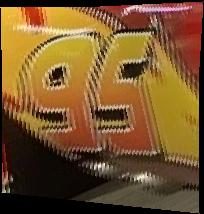
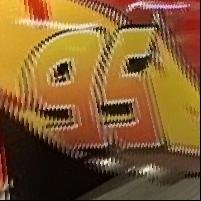
uploaded project 4b

diff --git a/cs280a/project4/index.html b/cs280a/project4/index.html
@@ -28,7 +28,7 @@
       <p class="font-sans text-xl text-slate-500 m-3 px-8">Method & Explanations</p>
       <p class="font-sans text-lg m-5 px-16 mb-10">
         <b>Computing Homography: </b>Homography is a mapping or transformation that accounts for not just translation but also other aspects like scaling and rotation.
-        Given a set of N points in image 1 and the set of corresponding N points in image 2, where N >= 8, the homography transformation matrix can be solved from
+        Given a set of N points in image 1 and the set of corresponding N points in image 2, where N >= 4, the homography transformation matrix can be solved from
         a least square system with the <b>np.linalg.lstsq</b> function. The least square system used is shown below with scale factor i=1 for a total of 8 unknowns a, b, c, d, e, f, g, h.
       </p>
       <div class="px-16 mx-16 flex space-x-4 justify-center items-center">
@@ -36,7 +36,7 @@
         <img class="h-48 object-scale-down flex-[2]" src="images/homography_eq2.png" />
       </div>
       <p class="font-sans text-lg m-5 px-16 mb-10">
-        <b>Rectification: </b>Given an image, can specify 8 points to define an area A within the image. To rectify the selected area A, we can compute the homography
+        <b>Rectification: </b>Given an image, can specify 4 or more points to define an area A within the image. To rectify the selected area A, we can compute the homography
         transformation H between A and a blank rectangular canvas image C, and then warp A onto C. The resulting rectified A will appear in C. Additionally, by using the inverse homography transformation
         by inversing H, we can also warp any image C back onto selected area A in the original image. This allow adding new content onto the original image in a way that 
         fits its geometry and context.
@@ -45,7 +45,7 @@
 
       <p class="font-sans text-xl text-slate-500 m-3 px-8 mb-5">Results</p>
 
-      <p class="font-sans font-bold text-lg m-5 px-8">Ligntning McQueen</p> 
+      <p class="font-sans font-bold text-lg m-5 px-8">Ligntning McQueen at Peterson Automotive Museum</p> 
       <div class="flex mx-10 mb-5 text-center justify-center gap-4">
         <div class="flex-[2] bg-gray-200 p-4 rounded-md">
           <p class="pb-2 text-lg font-bold">Original Image</p>
@@ -54,7 +54,7 @@
           </div>
         </div>
         <div class="flex-1 p-4 rounded-md flex text-start items-center">
-          <p class="pb-2 text-lg">Two areas are defined on the image, with the outer boundary of each area defined by 8 points. <br /><br />
+          <p class="pb-2 text-lg">Two areas are defined on the image, with the outer boundary of each area defined by 4 points. <br /><br />
             The green points define area 1.<br/>
             The blue points define area 2.
           </p>
@@ -310,9 +310,227 @@
 
       <p class="font-sans text-lg mt-5 mb-5 px-16">
         The above result has a visible vertical discrepency between image 2 and 3. This may be due to a change in camera center of projection between the two 
-        images when the photos are taken, as the blend overall looks consistent otherwise. The issue of ghosting also appears as some chairs not not very clear.
-        This is a limitation to the simple alpha feathering method and may be solved by methods like two-band blending with laplacian stacks.
+        images when the photos are taken, as the blend overall looks consistent otherwise.
       </p>
     </div>
+
+    <!-- Part 2 Title -->
+    <div class="container mx-auto p-5 m-5 my-10 mt-20 border-solid border-4 bg-violet-200 border-violet-800 rounded-md shadow-lg flex flex-col justify-center text-center">
+      <!-- <p class="font-sans text-2xl ml-3 font-bold">Part 1: Image Warping and Mosaicing</p> -->
+      <p class="font-sans text-3xl text-slate-700 font-bold m-3 px-8">Part B: Feature Matching & Autostitching</p>
+    </div>
+
+    <!-- Part 2.1 -->
+    <div class="container mx-auto p-5 pb-12 m-5 my-10 border-solid border-2 border-indigo-200 rounded-md shadow-lg flex flex-col justify-center">
+      <p class="font-sans text-2xl ml-3 mb-3 font-bold">Extracting Feature Descriptors</p>
+      <div class="border-t border-slate-600 mb-3"></div>
+      
+      <p class="font-sans text-xl text-slate-500 m-3 px-8">Method & Explanations</p>
+      <p class="font-sans text-lg m-5 px-16">
+        <b>Corner Feature Detection: </b>Harris corner detector utilizes changes in gradients to pick up on features in images that are likely corner points. The result of Harries corner detection 
+        is a list of points that are likely corners, together with corner response value for each pixel of the image.
+      </p>
+      <div class="flex flex-wrap mx-10 text-center gap-4 mb-5">
+        <div class="flex-1 bg-gray-200 p-4 rounded-md">
+          <p class="pb-2 text-lg font-bold">Harris Corner Response</p>
+          <div class="py-2 px-1 flex flex-col justify-center items-center">
+            <img class="max-h-96 object-scale-down rounded-md" src="images/harris_vals.png" />
+          </div>
+        </div>
+        <div class="flex-1 bg-gray-100 p-4 rounded-md">
+          <p class="pb-2 text-lg font-bold">Detected Corners (Top 10%)</p>
+          <div class="py-2 px-1 flex justify-center">
+            <img class="max-h-96 object-scale-down rounded-md" src="images/harris_ex.png" />
+          </div>
+        </div>
+      </div>
+
+      <p class="font-sans text-lg m-5 px-16">
+        <b>Adaptive Non-Maximal Suppression: </b> Based on the approach described in the paper <i>“Multi-Image Matching using Multi-Scale Oriented Patches” by Brown et al</i> , the detected corner feature 
+          points are filtered ("suppressed") such that they become more evenly spread out, which leads to better overall feature points.<br /><br /> The overall idea is to filter the feature points 
+          such that only feature points evenly spaced with higher corner response are kept, while other points are discarded. For my implementation, each corner point is assigned a radius initialized to 0 and
+          the radius for all point equally increase by 1 at each iteration. Whenever overlap occurs between two or more circles, only the point with largest corner response remain. This process can keep going until 
+          a desired number of feature points is reached, during which the radius value would also be the minimum radius for the current suppression outcome.
+        </b>
+      </p>
+      <div class="flex mx-10 mb-5 mt-5 text-center justify-center">
+        <div class="bg-gray-200 rounded-md w-full">
+          <div class="py-2 flex flex-col justify-center">
+            <p class="pb-2 pt-4 text-lg font-bold">Adaptive Non-Maximal Suppression (N=50, Radius=51)</p>
+            <div class="flex mx-10 text-center mb-5">
+              <div class="mr-8 pt-2 flex justify-center">
+                <img class="max-h-96 object-scale-down rounded-md" src="images/max_suppression1.png" />
+              </div>
+              <div class="pt-2 flex justify-center">
+                <img class="max-h-96 object-scale-down rounded-md" src="images/max_suppression2.png" />
+              </div>
+            </div>
+          </div>
+        </div>
+      </div> 
+
+      <p class="font-sans text-lg m-5 px-16">
+        <b>Feature Descriptors: </b> To better match between feature points, we extract feature descriptors, which are small patches surrounding each feature point.
+        For my implementation, all feature descriptors are 40 by 40 patches downsampled to 8 by 8 gain-normalized patches.
+        </b>
+      </p>
+      <div class="flex mx-10 mb-5 mt-5 text-center justify-center">
+        <div class="bg-gray-200 p-4 rounded-md w-full">
+          <div class="py-2 px-1 flex flex-col justify-center">
+            <p class="pb-2 text-lg font-bold">Example Feature Descriptors (8 by 8)</p>
+            <div class="flex flex-col mx-10 text-center mb-5">
+              <div class="pt-2 flex justify-center">
+                <img class="max-h-80 object-scale-down rounded-md" src="images/feature_desc1.png" />
+              </div>
+              <div class="pt-2 flex justify-center">
+                <img class="max-h-80 object-scale-down rounded-md" src="images/feature_desc2.png" />
+              </div>
+            </div>
+          </div>
+        </div>
+      </div> 
+    </div>
+
+    <!-- Part 2.2 -->
+    <div class="container mx-auto p-5 pb-12 m-5 my-10 border-solid border-2 border-indigo-200 rounded-md shadow-lg flex flex-col justify-center">
+      <p class="font-sans text-2xl ml-3 mb-3 font-bold">Feature Matching & Recovering Homography</p>
+      <div class="border-t border-slate-600 mb-3"></div>
+      
+      <p class="font-sans text-xl text-slate-500 m-3 px-8">Method & Explanations</p>
+      <p class="font-sans text-lg m-5 px-16">
+        <b>Feature Matching: </b>To match the features of images <mark>A</mark> and <mark>B</mark> using feature descriptors <mark>DA</mark> and <mark>DB,</mark> for each feature descriptor <mark>DA_i</mark> in <mark>DA</mark>, the euclidean distance between
+        <mark>DA_i</mark> and all of <mark>DB</mark> are computed, and the two feature descriptors from DB with smallest euclidean distance (closest to <mark>DA_i</mark>) are obtained as <mark>DB_NN1</mark> (with smallest distance <mark>d_NN1</mark>) and <mark>DB_NN2</mark> (with second smallest distance <mark>d_NN2</mark>), which are 
+        the 2 nearest neighbors of <mark>DA_i</mark>. Then, the <b>Lowe threshold</b> is applied where <mark>DA_i</mark> and <mark>DB_NN1</mark> would form a match only if <mark>d_NN1/d_NN2</mark> is less than a certain threshold. The overall idea is that by passing the Lowe threshold test,
+        <mark>d_NN1</mark> would need to be sufficiently different from <mark>d_NN2</mark>, which would lead to a more confident matching since there are no close alternatives.
+      </p>
+      <p class="font-sans text-lg m-5 px-16">
+        <b>Recovering Homography: </b>After feature descriptors are matched and a list of corresponding feature points are obtained, we can apply <b>RANSAC</b> to recover the homography. Since the 
+          feature matching step is not perfect and could have incorrect matches, the previous homography computation setup would not work reliably. Instead, we can recover homography with RANSAC, which is robust to minor matching errors.
+          The main steps to implement RANSAC are shown below.
+        </b>
+      </p>
+      <p class="font-sans text-lg mx-20 px-5 py-5 bg-gray-200 text-indigo-800 rounded-lg mb-5">
+        Given list of corresponding feature points <mark>A</mark> and <mark>B</mark> of two images, iterate N times and for each iteration: <br />
+        → <b>Step 1:</b> Select 4 random pairs of feature points <mark>(Ai, Bi)</mark>.<br />
+        → <b>Step 2:</b> Compute homography transformation matrix <mark>H_est</mark> from the 4 points selected in step 1.<br />
+        → <b>Step 3:</b> Transform all points <mark>A</mark> into <mark>A'</mark> using <mark>H_est</mark>. <br />
+        → <b>Step 4:</b> Obtain <b>"inliers"</b> as all pairs <mark>(Ai, Bi)</mark> such that distance between <mark>Ai'</mark> and <mark>Bi</mark> is less than certain threshold.<br />
+        → <b>Step 5:</b> Store inliers with maximal number of pairs.<br />
+        After N iterations: <br/>
+        → <b>Step 6:</b> Compute homography transformation matrix <mark>H</mark> based on largest inliers.
+      </p>
+      <div class="border-t border-slate-300 mx-10 my-3"></div>
+
+      <p class="font-sans text-xl text-slate-500 m-3 px-8 mb-5">Results</p>
+
+      <p class="font-sans font-bold text-lg m-5 mt-5 px-8">Xučyun Ruwway Courtyard</p>  
+      <div class="flex mx-10 mb-5 text-center justify-center">
+        <div class="bg-gray-200 rounded-md w-full">
+          <div class="py-2 flex flex-col justify-center">
+            <p class="pb-2 pt-4 text-lg font-bold">Feature Matching</p>
+            <div class="flex mx-10 text-center mb-5">
+              <div class="mr-8 pt-2 flex justify-center">
+                <img class="max-h-96 object-scale-down rounded-md" src="images/ruwway/matches1.png" />
+              </div>
+              <div class="pt-2 flex justify-center">
+                <img class="max-h-96 object-scale-down rounded-md" src="images/ruwway/matches2.png" />
+              </div>
+            </div>
+          </div>
+        </div>
+      </div> 
+      <div class="flex flex-wrap mx-10 text-center gap-4">
+        <div class="flex-1 bg-gray-200 p-4 rounded-md">
+          <p class="pb-2 text-lg font-bold">With Manual Correspondances</p>
+          <div class="py-2 px-1 flex flex-col justify-center items-center">
+            <img class="max-h-96 object-scale-down rounded-md" src="images/ruwway/mosaic_ruwway_3im.jpg" />
+          </div>
+        </div>
+        <div class="flex-1 bg-gray-100 p-4 rounded-md">
+          <p class="pb-2 text-lg font-bold">With Auto-Matching & Stitching</p>
+          <div class="py-2 px-1 flex justify-center">
+            <img class="max-h-96 object-scale-down rounded-md" src="images/ruwway/mosaic_ruwway_3im_auto.jpg" />
+          </div>
+        </div>
+      </div>
+
+      <p class="font-sans font-bold text-lg m-5 mt-10 px-8">Xučyun Ruwway Courtyard (Cylindrical Mapping)</p>
+      <div class="flex mx-10 mb-5 text-center justify-center">
+        <div class="bg-gray-200 p-4 rounded-md w-full">
+          <div class="py-2 px-1 flex flex-col justify-center">
+            <p class="pb-2 text-lg font-bold">With Manual Correspondances</p>
+            <img class="max-h-80 object-scale-down rounded-md" src="images/ruwway/mosaic_ruwway_7im.jpg" />
+          </div>
+        </div>
+      </div>  
+      <div class="flex mx-10 mb-5 text-center justify-center">
+        <div class="bg-gray-100 p-4 rounded-md w-full">
+          <div class="py-2 px-1 flex flex-col justify-center">
+            <p class="pb-2 text-lg font-bold">With Auto-Matching & Stitching</p>
+            <img class="max-h-80 object-scale-down rounded-md" src="images/ruwway/mosaic_ruwway_7im_auto.jpg" />
+          </div>
+        </div>
+      </div>  
+
+      <p class="font-sans font-bold text-lg m-5 px-8">View of LA from Getty Center</p> 
+      <div class="flex flex-wrap mx-10 mb-5 text-center gap-4">
+        <div class="flex-1 bg-gray-200 p-4 rounded-md">
+          <p class="pb-2 text-lg font-bold">With Manual Correspondances</p>
+          <div class="py-2 px-1 flex flex-col justify-center items-center">
+            <img class="max-h-96 object-scale-down rounded-md" src="images/getty/mosaic_3im.jpg" />
+          </div>
+        </div>
+        <div class="flex-1 bg-gray-100 p-4 rounded-md">
+          <p class="pb-2 text-lg font-bold">With Auto-Matching & Stitching</p>
+          <div class="py-2 px-1 flex justify-center">
+            <img class="max-h-96 object-scale-down rounded-md" src="images/getty/mosaic_3im_auto.jpg" />
+          </div>
+        </div>
+      </div> 
+
+      <p class="font-sans font-bold text-lg m-5 px-8">Berkeley Street View</p> 
+      <div class="flex mx-10 mb-5 text-center justify-center">
+        <div class="bg-gray-200 rounded-md w-full">
+          <div class="py-2 flex flex-col justify-center">
+            <p class="pb-2 pt-4 text-lg font-bold">Feature Matching</p>
+            <div class="flex mx-10 text-center mb-5">
+              <div class="mr-8 pt-2 flex justify-center">
+                <img class="max-h-96 object-scale-down rounded-md" src="images/street/matches1.png" />
+              </div>
+              <div class="pt-2 flex justify-center">
+                <img class="max-h-96 object-scale-down rounded-md" src="images/street/matches2.png" />
+              </div>
+            </div>
+          </div>
+        </div>
+      </div> 
+      <div class="flex flex-wrap mx-10 text-center gap-4">
+        <div class="flex-1 bg-gray-200 p-4 rounded-md">
+          <p class="pb-2 text-lg font-bold">Auto-Matching & Stitching (2 Images)</p>
+          <div class="py-2 px-1 flex flex-col justify-center items-center">
+            <img class="max-h-96 object-scale-down rounded-md" src="images/street/street_2im.jpg" />
+          </div>
+        </div>
+        <div class="flex-1 bg-gray-100 p-4 rounded-md">
+          <p class="pb-2 text-lg font-bold">Auto-Matching & Stitching (3 Images)</p>
+          <div class="py-2 px-1 flex justify-center">
+            <img class="max-h-96 object-scale-down rounded-md" src="images/street/street_3im.jpg" />
+          </div>
+        </div>
+      </div> 
+    </div>
+
+    <!-- Takeaway -->
+    <div class="container mx-auto p-5 pb-12 m-5 my-10 border-solid border-2 border-indigo-200 rounded-md shadow-lg flex flex-col justify-center">
+      <p class="font-sans text-2xl ml-3 mb-3 font-bold">Key Takeaway</p>
+      <div class="border-t border-slate-600 mb-3"></div>
+      <p class="font-sans text-xl m-5 px-8">
+        Transformation matrices like homography transformation matrix are really powerful as they can derive the general spatial transformations between images from 
+        just a few correspondence points. By properties by matrix multiplications and inverses, the obtained transformations can be combined or inverted to allow 
+        interesting and cool effects that relates to the geometry properties of the image like rectification.
+      </p>
+    </div>
+
+
   </body>
 </html>
